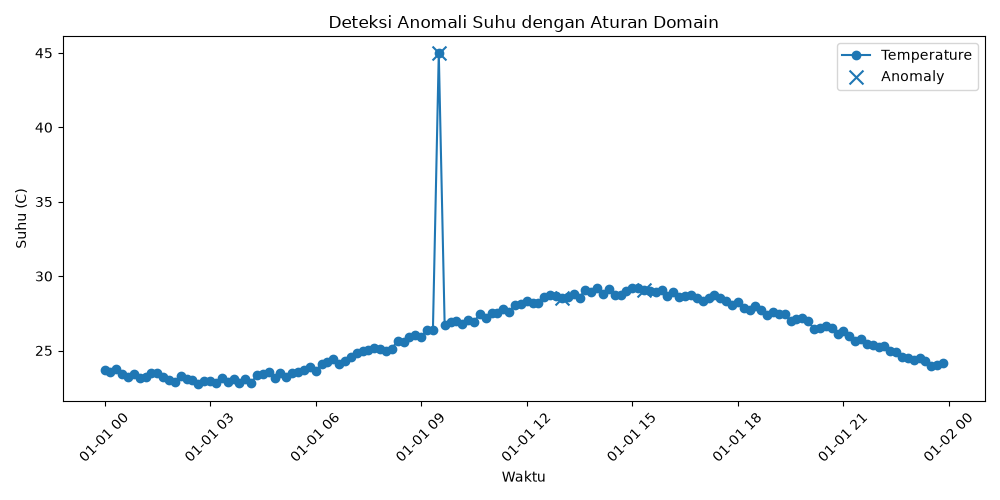
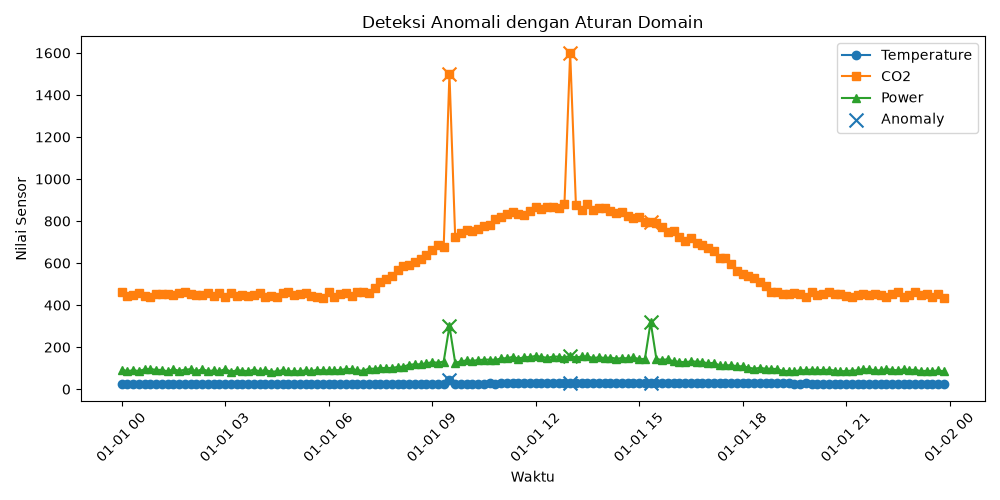
Enhance anomaly detection plot by adding CO2 and power metrics
- Updated the plot_anomaly.py script to include additional lines for CO2 and power readings alongside temperature.
- Modified the scatter plot to highlight anomalies for CO2 and power metrics.
- Changed the plot title and y-axis label to reflect the inclusion of multiple sensor values.

diff --git a/scripts/plot_anomaly.py b/scripts/plot_anomaly.py
@@ -14,6 +14,8 @@ df["anomaly_rule"] = (
 )
 plt.figure(figsize=(10, 5))
 plt.plot(df["timestamp"], df["temperature_c"], marker="o", label="Temperature")
+plt.plot(df["timestamp"], df["co2_ppm"], marker="s", label="CO2")
+plt.plot(df["timestamp"], df["power_watt"], marker="^", label="Power")
 plt.scatter(
     df.loc[df["anomaly_rule"], "timestamp"],
     df.loc[df["anomaly_rule"], "temperature_c"],
@@ -21,9 +23,21 @@ plt.scatter(
     s=100,
     label="Anomaly"
 )
-plt.title("Deteksi Anomali Suhu dengan Aturan Domain")
+plt.scatter(
+    df.loc[df["anomaly_rule"], "timestamp"],
+    df.loc[df["anomaly_rule"], "co2_ppm"],
+    marker="x",
+    s=100,
+)
+plt.scatter(
+    df.loc[df["anomaly_rule"], "timestamp"],
+    df.loc[df["anomaly_rule"], "power_watt"],
+    marker="x",
+    s=100,
+)
+plt.title("Deteksi Anomali dengan Aturan Domain")
 plt.xlabel("Waktu")
-plt.ylabel("Suhu (C)")
+plt.ylabel("Nilai Sensor")
 plt.xticks(rotation=45)
 plt.legend()
 plt.tight_layout()
